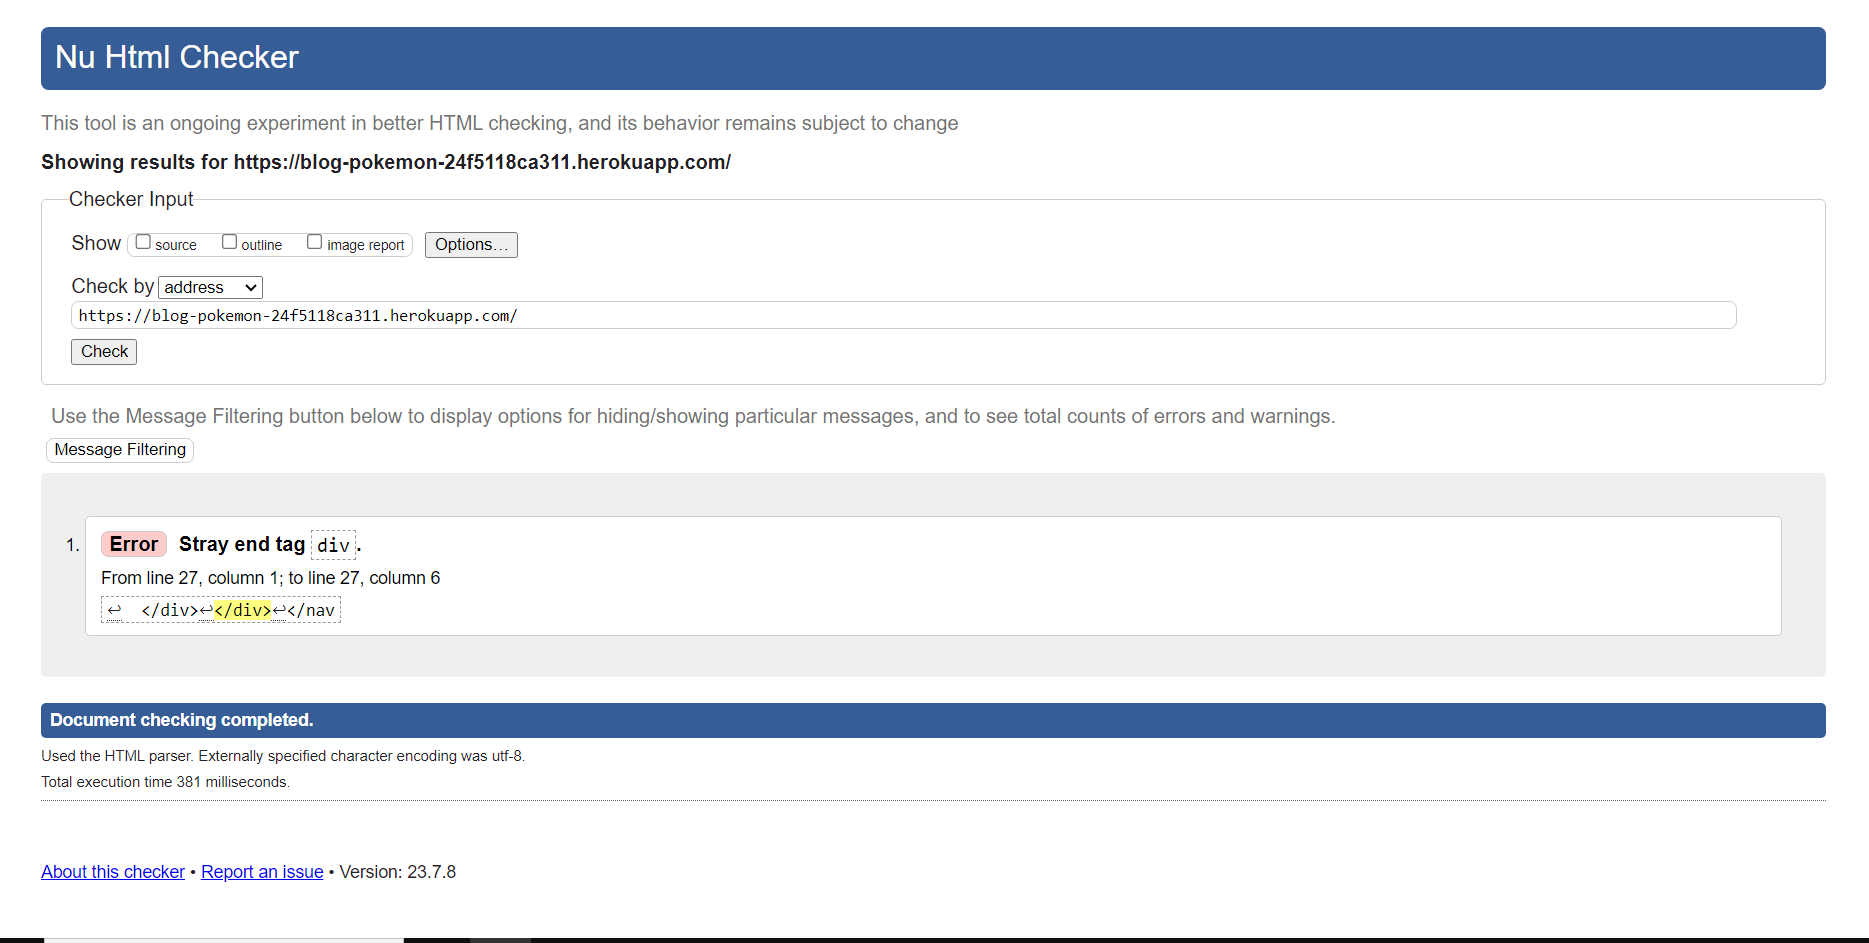
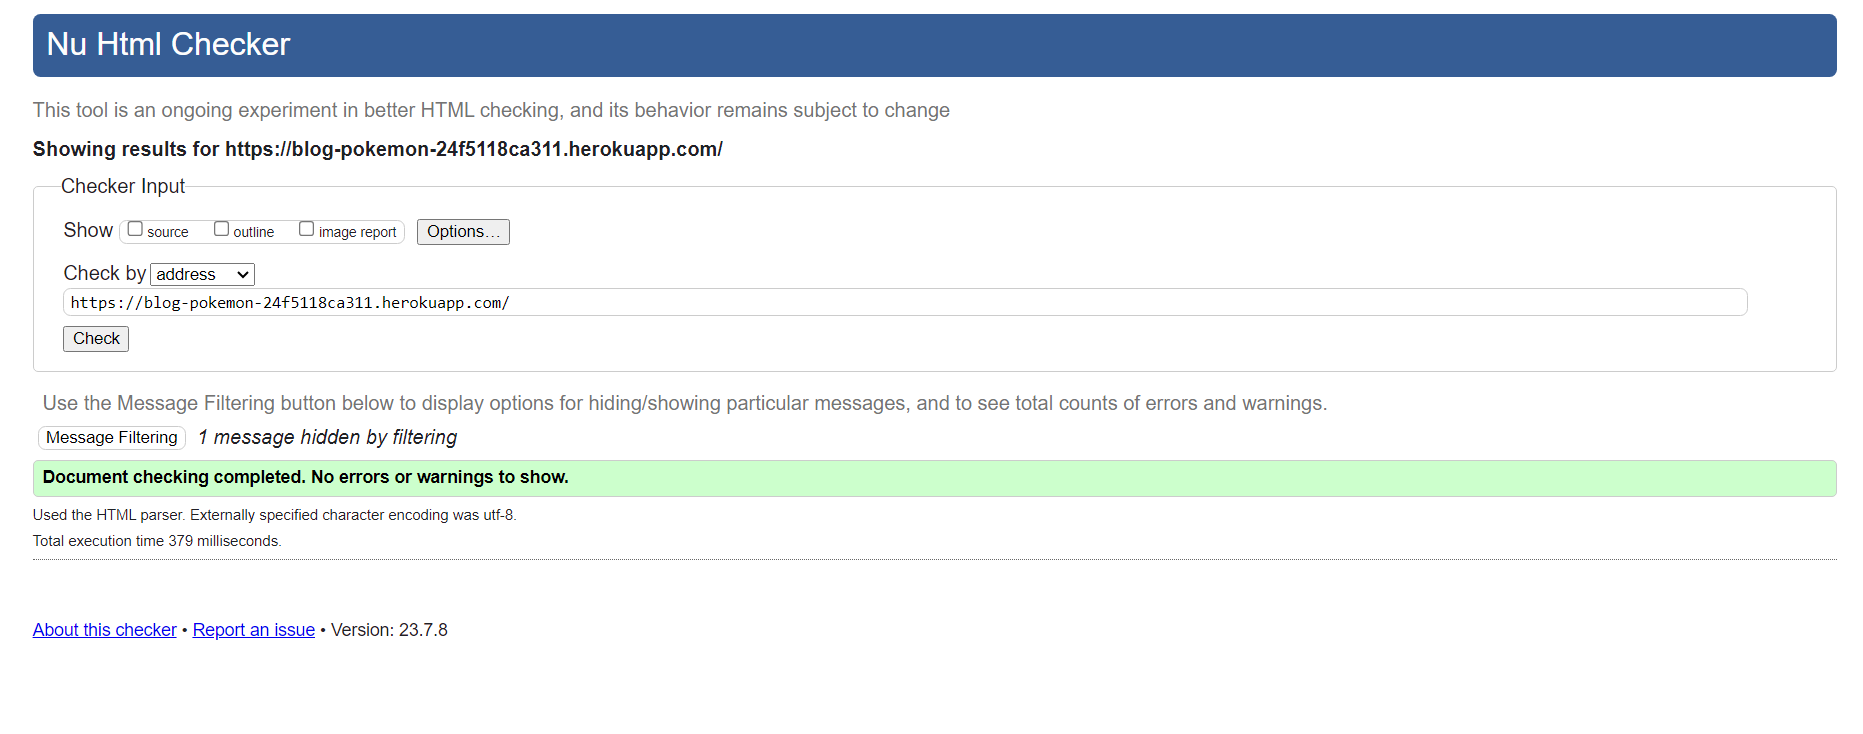
update testing html validator image and text in readme

diff --git a/README.md b/README.md
@@ -166,7 +166,7 @@ I have always been passionate about Pokemon so I wanted to create a simple pokem
 - ![Screenshot](/media/css-report.PNG)
 
 - HTML Validator:
-- small div unused but couldn't find
+- small div unused but couldn't find but other than that there were no errors found when filtering that out.
 - ![Screenshot](/media/html-report.PNG)
 
 - Unittest and Coverage:
